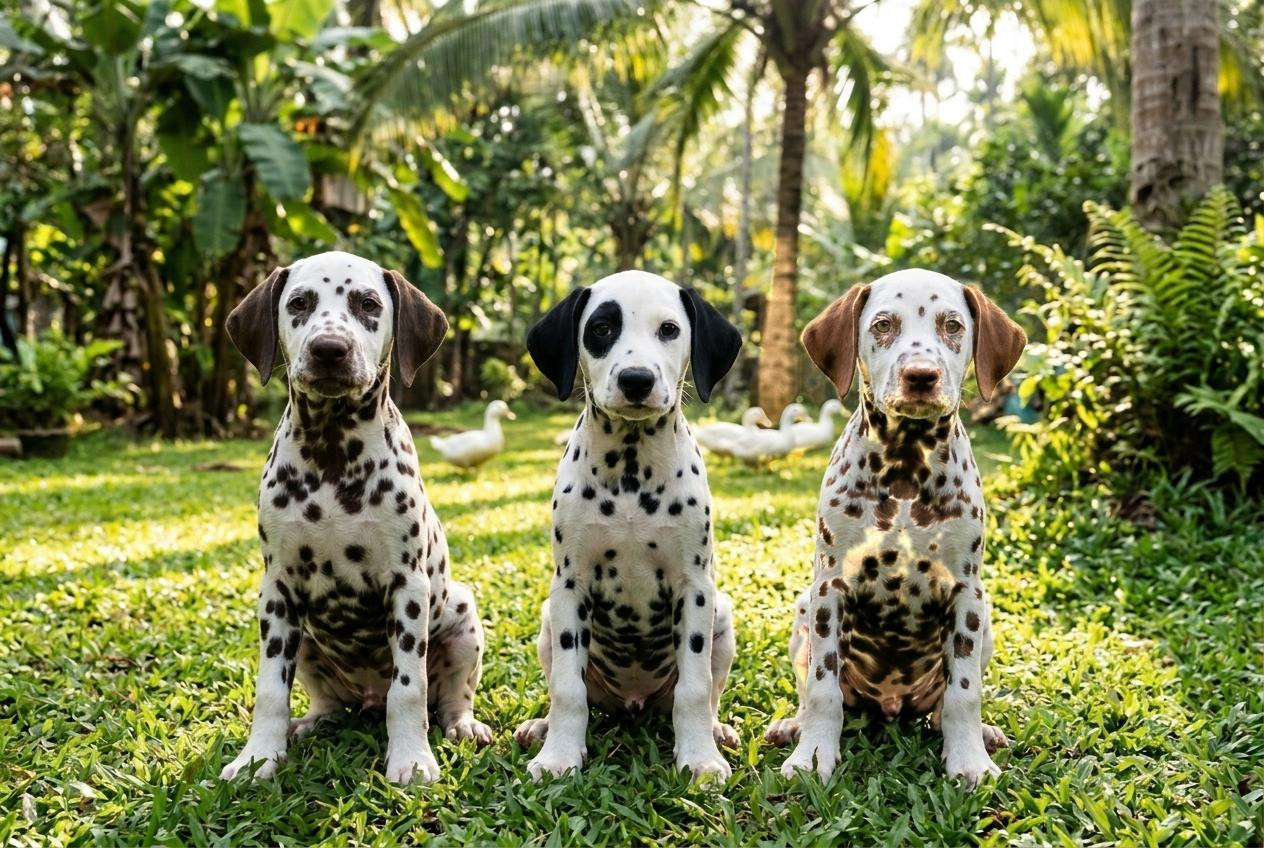
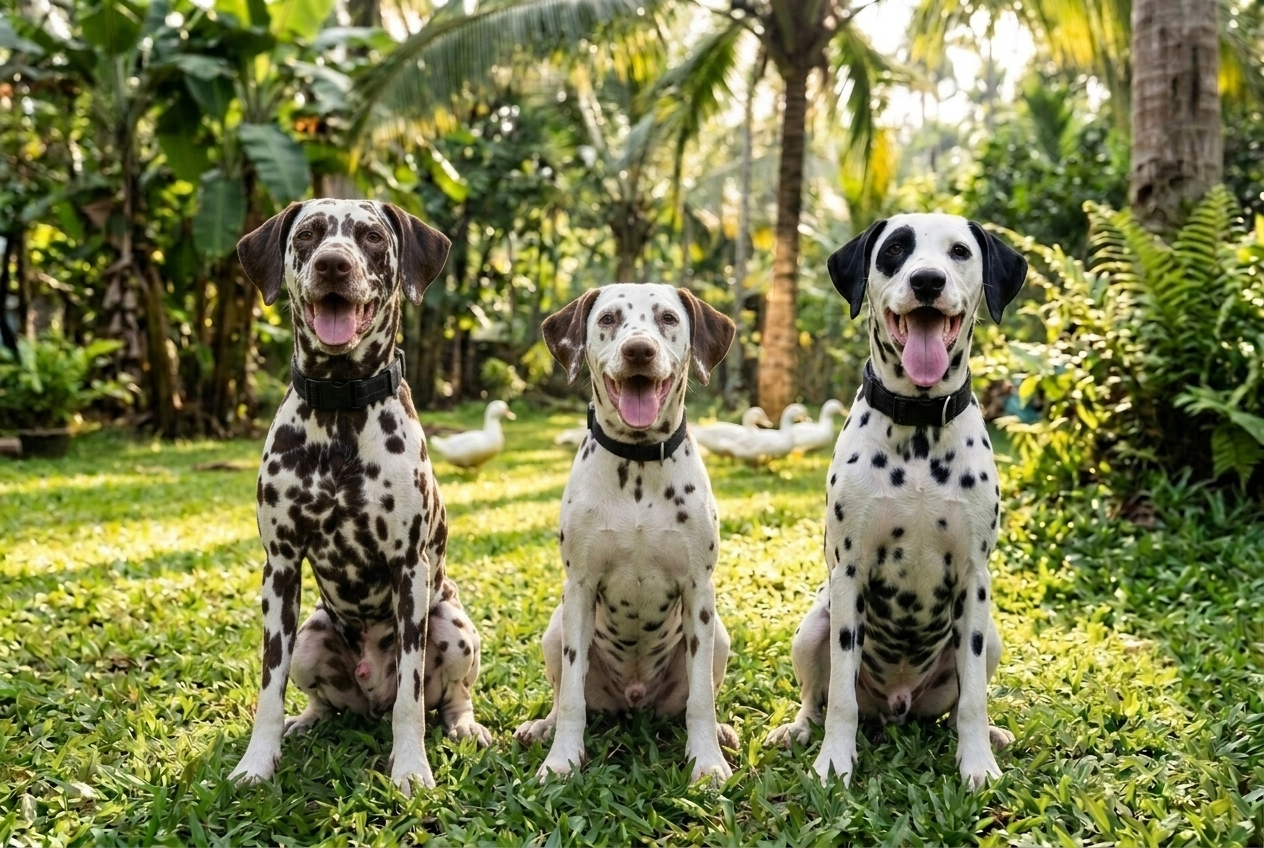
feat(sanctuary): replace Dalmatian trio photo with real dogs keeping farmstead & ducks background

diff --git a/about.html b/about.html
@@ -917,7 +917,7 @@
             <!-- Slide 3: Three Dalmatian Farm Guard Puppies (Patch, Sandy & Cocoa) -->
             <div id="sanctuary-slide-2" class="grid lg:grid-cols-12 gap-8 items-center hidden">
               <div class="lg:col-span-7 rounded-xl overflow-hidden border border-white/10 h-72 sm:h-96 bg-black">
-                <img src="assets/images/dalmatian-guard-puppies.jpg?v=20261122_dog3_faded50_v8" alt="The three Dalmatian guard puppies—Cocoa with dark chocolate liver spots, Patch with black spots and right eye patch, and Sandy with matching dark chocolate liver spots—standing watch together on the lush green farm grass" class="w-full h-full object-cover">
+                <img src="assets/images/dalmatian-guard-puppies.jpg?v=20261123_real_trio_v9" alt="The three Dalmatian guard dogs—Cocoa with dark chocolate liver spots, Sandy with lighter brown spots, and Patch with black spots and his signature right eye patch—sitting together on the lush green farm grass with white Pekin ducks behind them" class="w-full h-full object-cover">
               </div>
               <div class="lg:col-span-5 space-y-4">
                 <span class="text-xs uppercase tracking-widest text-brand-gold font-bold block">Slide 03 • Three Farmstead Protectors</span>
